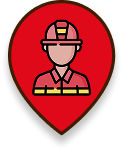
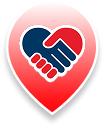
UPDATE: FEB 2 PART 4

diff --git a/src/pages/Dashboard.jsx b/src/pages/Dashboard.jsx
@@ -15,8 +15,8 @@ const DEFAULT_CENTER = { lat: 14.649, lng: 120.970 }; // Caloocan City South
 const MAP_HEIGHT = 550; // px
 const MARKER_WIDTH = 45; // px
 const MARKER_HEIGHT = 50; // px
-const RESCUER_MARKER_WIDTH = 36; // px
-const RESCUER_MARKER_HEIGHT = 42; // px
+const RESCUER_MARKER_WIDTH = 50; // px
+const RESCUER_MARKER_HEIGHT = 56; // px
 
 const Dashboard = () => {
   const [incidents, setIncidents] = useState([]);